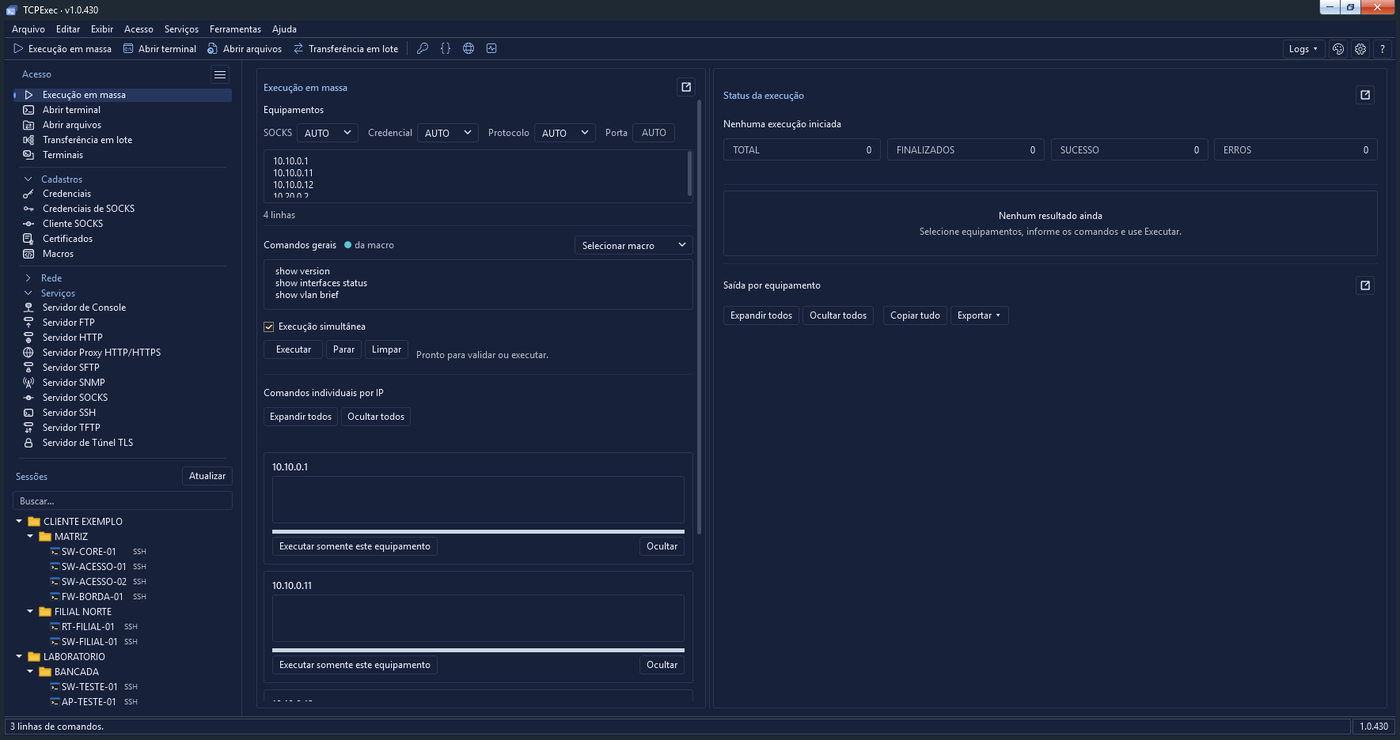
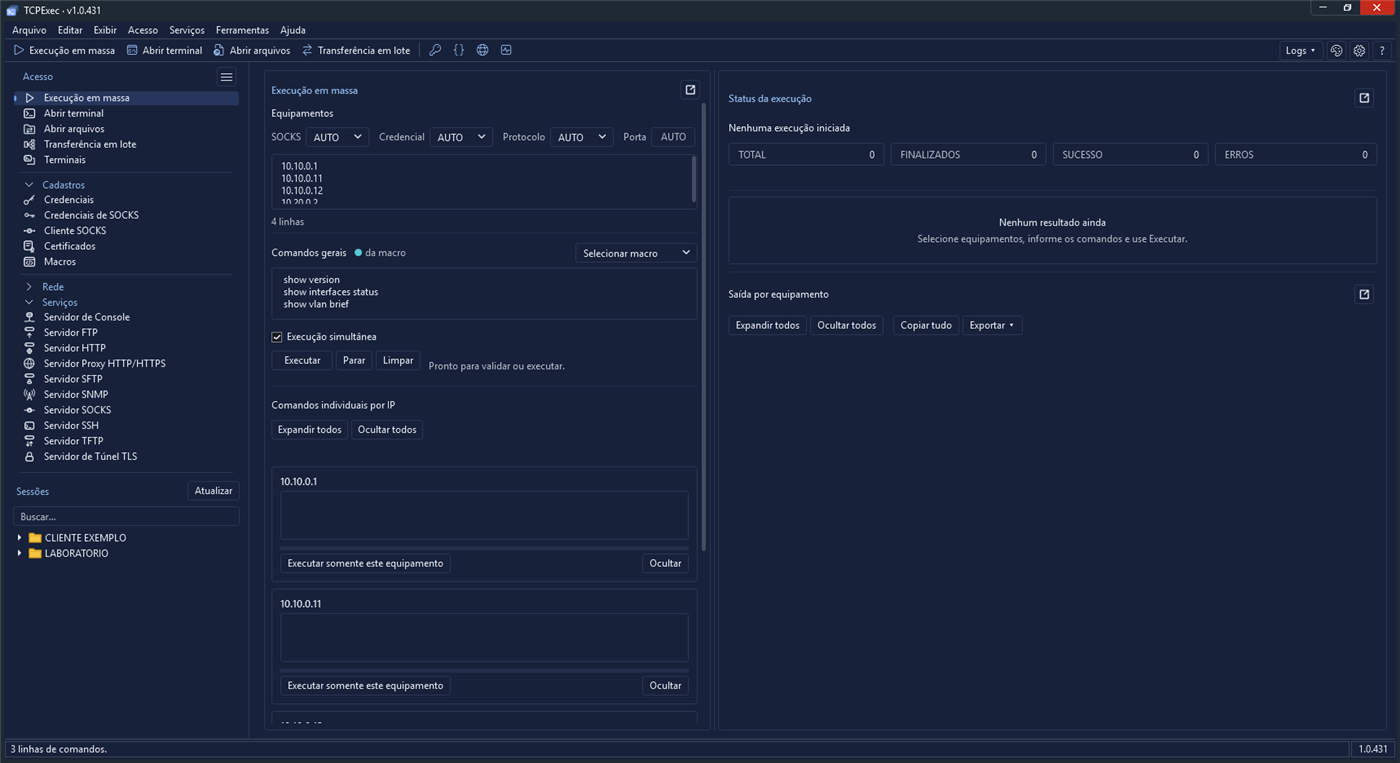
README e tela do modo escuro da 1.0.431 (tema escuro corrigido)

diff --git a/README.md b/README.md
@@ -1,7 +1,7 @@
 <p align="center"><img src="telas/banner.png" alt="TCPExec" width="100%"></p>
 
 <p align="center">
-<img src="https://img.shields.io/badge/vers%C3%A3o-1.0.430-blue"> <img src="https://img.shields.io/badge/Windows-10%20%7C%2011-0078D6"> <img src="https://img.shields.io/badge/.NET-11-512BD4">
+<img src="https://img.shields.io/badge/vers%C3%A3o-1.0.431-blue"> <img src="https://img.shields.io/badge/Windows-10%20%7C%2011-0078D6"> <img src="https://img.shields.io/badge/.NET-11-512BD4">
 </p>
 
 <p align="center"><b>A estação de trabalho do técnico de redes: acesse e mande comandos para um equipamento ou para centenas de uma vez.</b><br><i>The network technician's workstation: access and send commands to one device or hundreds at once.</i></p>
@@ -45,9 +45,8 @@ Para quem cuida de switches, roteadores, firewalls e servidores. O TCPExec guard
 
 Windows 10/11 x64 · .NET 11 Desktop Runtime
 
-## Novidades / What's new — v1.0.430
-- Configurações com lista à esquerda e uma página por vez. / *Settings with a list on the left, one page at a time.*
-- Telas mais limpas, no padrão do Windows 7. / *Cleaner screens, in the Windows 7 style.*
-- Sessão encerrada: Enter reconecta, F fecha. / *Session ended: Enter reconnects, F closes.*
+## Novidades / What's new — v1.0.431
+- Tema escuro corrigido: títulos e ícones visíveis também no Windows Clássico. / *Dark theme fixed: titles and icons visible in Windows Classic too.*
+- Botões do título no tom escuro e sem faixas claras na Execução em massa. / *Dark title buttons and no light stripes in Mass execution.*
 
 <sub>Uso somente com autorização escrita do autor. / Use only with the author's written authorization.</sub>
